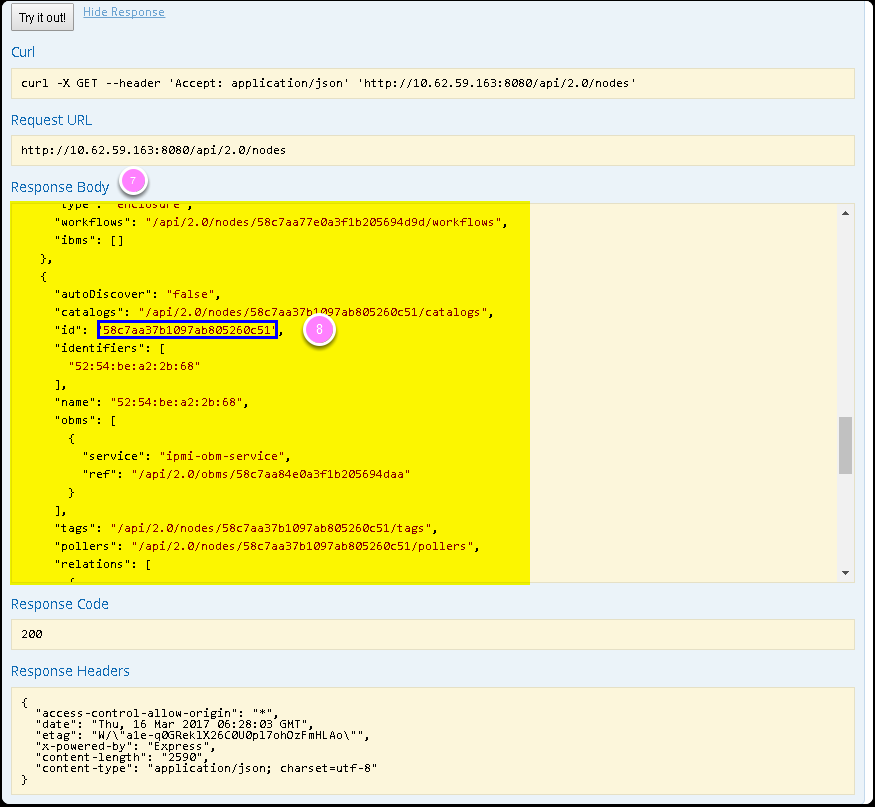
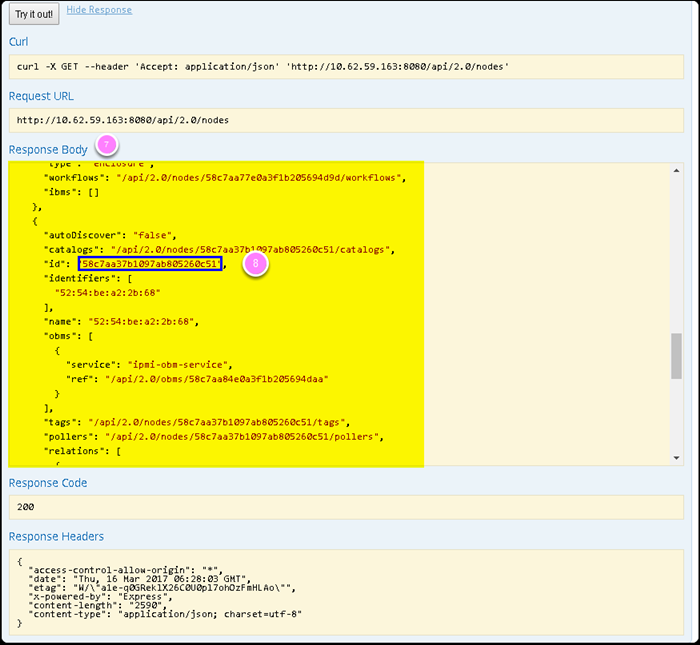
edit tutorials

diff --git a/docs/tutorials/vagrant-api.rst b/docs/tutorials/vagrant-api.rst
@@ -24,7 +24,6 @@ Before the following operations are excuted, you need to ssh the vagrant box fir
   vagrant@rackhd:~$ curl localhost:8080/api/current/nodes/<Node-ID>/workflows | jq '.'
 
 .. image:: ../_static/node_workflow.png
-     :height: 330
      :align: center
 
 **REST API ( v 2.0) - Get active workflow**
@@ -36,7 +35,6 @@ Before the following operations are excuted, you need to ssh the vagrant box fir
 In the following example, the return is blank ([]), which means no workflow is actively running on this node.
 
 .. image:: ../_static/active_workflow.png
-     :height: 100
      :align: center
 
 **REST API ( v 2.0) - Show RackHD configurations**
@@ -48,7 +46,6 @@ Show the RackHD configurations, by running the following command.
  vagrant@rackhd:~$ curl localhost:8080/api/2.0/config | jq '.'
 
 .. image:: ../_static/config_file.png
-     :height: 370
      :align: center
 
 **REST API ( v 2.0) - lookup table**
@@ -60,7 +57,6 @@ Dump the IP address in the lookup table (where RackHD maintain the nodes IP), by
   vagrant@rackhd:~$ curl localhost:8080/api/current/lookups | jq '.'
 
 .. image:: ../_static/lookup_info.png
-   :height: 270
    :align: center
 
 **REST API ( v 2.0) - build-in workflow**
@@ -74,7 +70,6 @@ Dump the IP address in the lookup table (where RackHD maintain the nodes IP), by
 As below output example, you will find lots of handy build-in workflow which RackHD carries, which you can leverage them directly.
 
 .. image:: ../_static/built-in-workflow.png
-     :height: 330
      :align: center
 
 **REST API ( v 2.0) - issue a workflow**
@@ -90,7 +85,6 @@ In the following example, to post a workflow to Reset a Note, the Node_id is obt
 Then the vNode is powered cycle and rebooted.
 
 .. image:: ../_static/issue_workflow.png
-     :height: 330
      :align: center
 
 **Redfish API - Chassis**
@@ -103,7 +97,6 @@ List the Chassis that is managed by RackHD (equivalent to the enclosure node in 
 
 
 .. image:: ../_static/redfish_chasis.png
-     :height: 210
      :align: center
 
 **Redfish API - System**
@@ -118,7 +111,6 @@ List the Chassis that is managed by RackHD (equivalent to the enclosure node in 
 
 
 .. image:: ../_static/redfish_sys.png
-     :height: 210
      :align: center
 
 **Redfish API - SEL Log**
@@ -130,7 +122,6 @@ List the SEL Log (System-ID is obtained in the previous step) by running the fol
    vagrant@rackhd:~$ curl 127.0.0.1:8080/redfish/v1/systems/<System-ID>/LogServices/Sel| jq '.'
 
 .. image:: ../_static/redfish_sel.png
-     :height: 290
      :align: center
 
 **Redfish API - CPU info**
@@ -144,7 +135,6 @@ Right-click, to paste the System-ID that you copied in a previous step.
   vagrant@rackhd:~$ curl 127.0.0.1:8080/redfish/v1/Systems/<System-ID>/Processors/0| jq '.'
 
 .. image:: ../_static/redfish_cpu.png
-     :height: 330
      :align: center
 
 **Redfish API - helper**
@@ -156,7 +146,6 @@ Show the list of RackHD Redfish APIs' by running below command:
   vagrant@rackhd:~$ curl 127.0.0.1:8080/redfish/v1| jq '.'
 
 .. image:: ../_static/redfish_helper.png
-     :height: 330
      :align: center
 
 Swagger UI
@@ -171,7 +160,6 @@ The following steps provide an overview of how to use the Swagger UI.
 3. Click /api/2.0 > /redfish/v1, to expand the API list.
 
 .. image:: ../_static/swagger-ui.png
-     :height: 250
      :align: center
 
 4. Get a Node ID by scrolling down the /API 2.0 list and clicking the "/nodes" API.
@@ -185,7 +173,6 @@ The details for this API are displayed (for example, description, parameters, re
 Notes: Some APIs do not require parameters. Some APIs require that you specify a unique Node ID or other parameters. Enter any necessary parameters and Swagger UI builds the RESTful API request and sends it when you click **Try it Out**.
 
 .. image:: ../_static/try_it_out.png
-     :height: 540
      :align: center
 
 7. The RackHD response is displayed. The Response Body is output in a json format from RackHD and is exactly the same as the return from command line API.
@@ -193,7 +180,6 @@ Notes: Some APIs do not require parameters. Some APIs require that you specify a
 8. Copy a node ID with the type "compute", instead of "enclosure".
 
 .. image:: ../_static/try_it_out_2.png
-     :height: 510
      :align: center
 
 9. From the API list, under /nodes API, find /nodes/{identifier}/catalogs, and then click the **"Get the catalogs fro a node"**.
@@ -206,7 +192,6 @@ Notes: Some APIs do not require parameters. Some APIs require that you specify a
 12. Experiment with other APIs.
 
 .. image:: ../_static/try_it_out_3.png
-     :height: 300
      :align: center
 
 

diff --git a/docs/tutorials/vagrant-discovery.rst b/docs/tutorials/vagrant-discovery.rst
@@ -194,7 +194,6 @@ The output is in json format. If you append 'jq' to the end of the command it wi
 You can see one or more enclosure nodes ("type": "enclosure") and computer names ("type": "compute").
 
 .. image:: ../_static/curl_nodes_info.png
-    :height: 500
     :align: center
  
 Node-ID
@@ -261,7 +260,6 @@ or "driveId" as example
    vagrant@rackhd:~$ curl 127.0.0.1:8080/api/current/nodes/<node_id>/catalogs/driveId | jq '.'
 
 .. image:: ../_static/catalog_info.png
-     :height: 300
      :align: center
 
 Retrieve Pollers
@@ -308,7 +306,6 @@ To talk with BMC, RackHD must be configured with the the BMC IP and credentials.
 .. code::
 
 .. image:: ../_static/set_bmc_ip.png
-   :height: 50
    :align: center
 
 3. Include the BMC IP (it should be 172.31.128.xx , the DHCP from rackhd-server) in the following command, to set an IPMI OBM setting on a node.
@@ -322,7 +319,6 @@ To talk with BMC, RackHD must be configured with the the BMC IP and credentials.
 4. Once the OBM credentials have been configured, RackHD can communicate with BMC in workflows (e.g. power-cycle the BMC or retrieve poller data)
 
 .. image:: ../_static/obm_setting.png
-     :height: 100
      :align: center
 
 Retrieve Pollers
@@ -375,7 +371,6 @@ data.
  vagrant@rackhd:~$ curl -X PATCH -H 'Content-Type: application/json' -d '{"pollInterval":15000}' 127.0.0.1:8080/api/current/pollers/<poller_id>
 
 .. image:: ../_static/pollers_info.png
-     :height: 350
      :align: center
 
 
